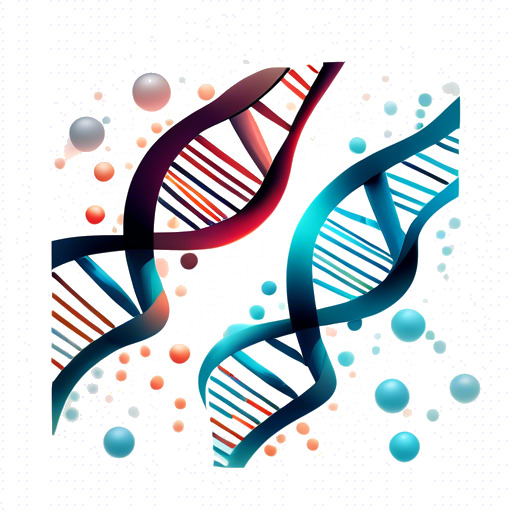
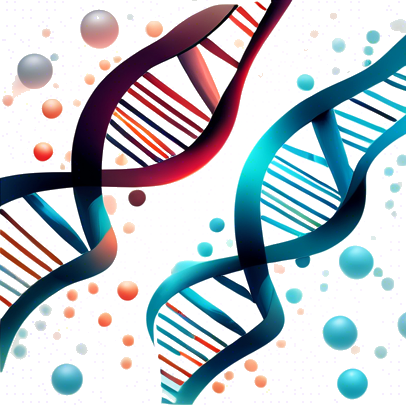
remove console

diff --git a/src/components/home/content/index.jsx b/src/components/home/content/index.jsx
@@ -150,8 +150,8 @@ const HomeContent = () => {
         image: "/images/gene.png",
         title: 'Clinical Outcomes',
         text: 'Analyzing treatment responses and survival patterns.',
-        width: 512,
-        height: 512
+        width: 406,
+        height: 405
     }]
     const onSearch = () => {
         router.push("/search?text=TP53");

diff --git a/src/components/mutation/driverLandscape/index.jsx b/src/components/mutation/driverLandscape/index.jsx
@@ -48,8 +48,6 @@ const DriverLandscape = () => {
 
 
         fetchData().then(() => {
-            console.log(geneData.current);
-            console.log(clinicData.current);
             const buildTopChartOption = () => {
                 const topChartSeries = mutationTypeColorConfig.map((configItem, index) => {
                     return {
